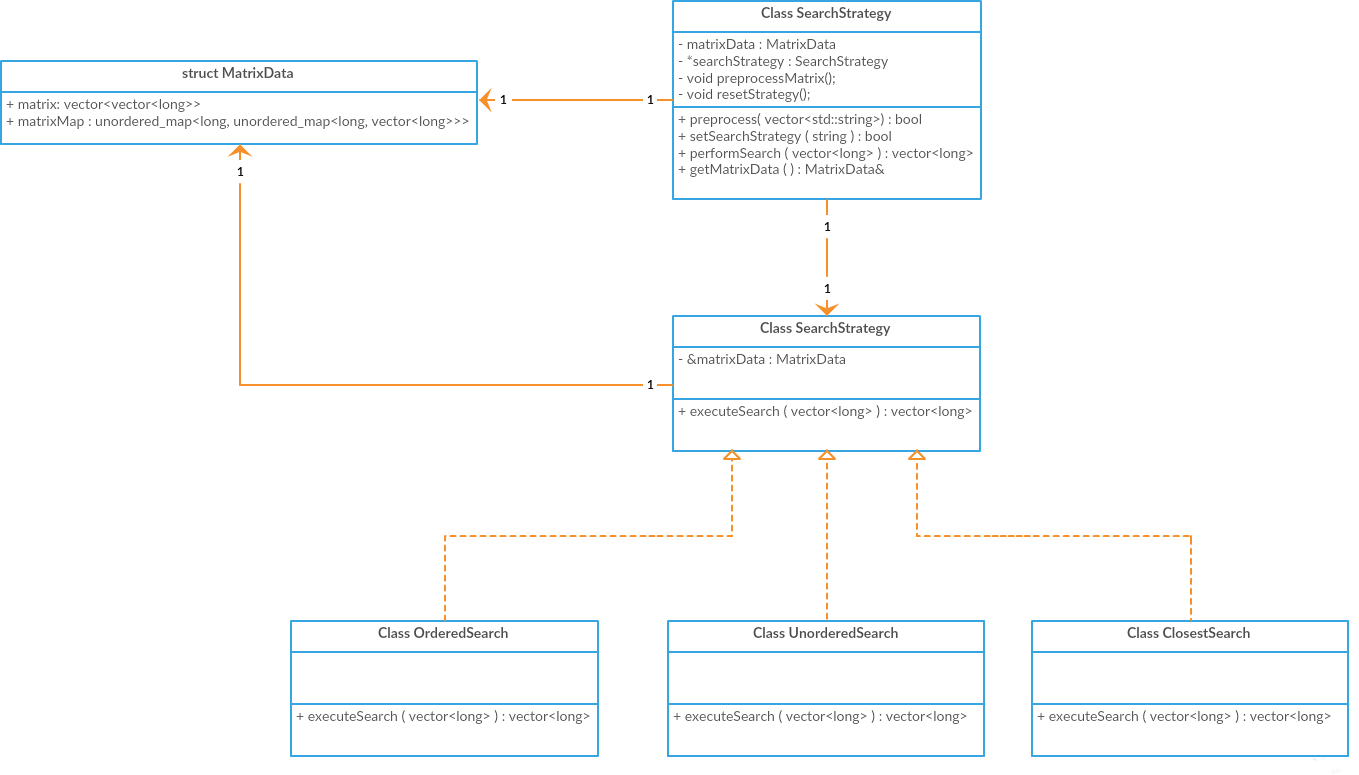
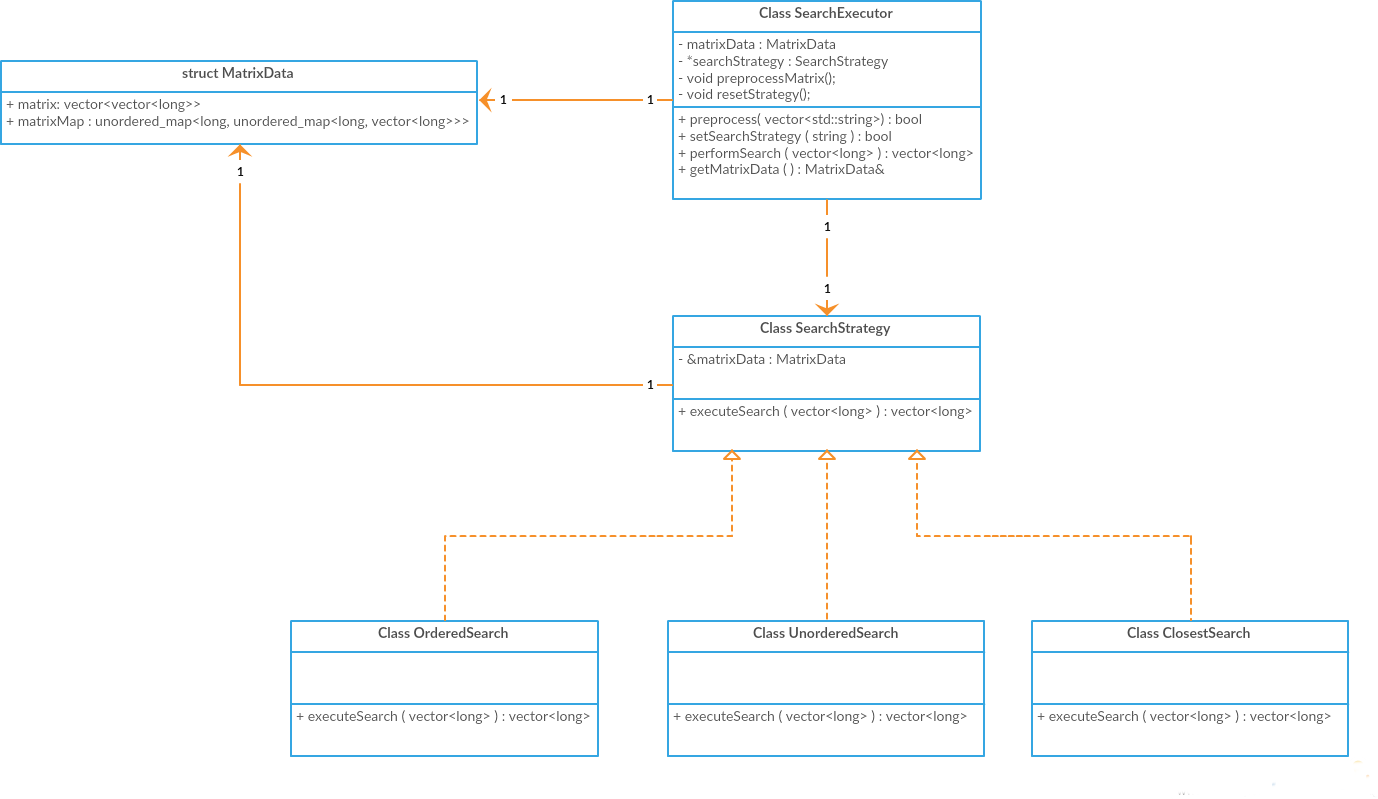
completed readme, code cleanup before submission

diff --git a/src/ordered_search.cpp b/src/ordered_search.cpp
@@ -1,19 +1,27 @@
 #include "ordered_search.hpp"
+#include <iostream>
 
 lvec OrderedSearch::executeSearch(lvec inputArr)
 {
-    if(inputArr.size() == 0)
+    if(inputArr.size() == 0)  //check for empty input
         return {-1};
 
     const matrixmap & matrixMap = matrixData.matrixMap;
     const matrixtype & matrix = matrixData.matrix;
 
+    //check if first element is present in the matrix and is the size of input array is greater than row length
     if (matrixMap.find(inputArr[0]) == matrixMap.end() || inputArr.size() > matrix[0].size())
         return {-1};
 
     lvec res;
     long i = 0;
 
+    //The logic here is: 
+    //1. We will first identify the rows where the first element of input array is present.
+    //2. Then identify the position in a given row where this element appears
+    //3. Traverse the matrix from this position till position + length of input array and during each step,
+    //   check if the element in matrix is same as that in input array
+    //4. If the number of matches is same input array length then the row index is stored and the process is repeated to find all such rows
     mapoflvec innerMap = matrixMap.at(inputArr[0]);
     for (mapoflvec::iterator it = innerMap.begin(); it != innerMap.end(); it++)
     {
@@ -21,7 +29,9 @@ lvec OrderedSearch::executeSearch(lvec inputArr)
         for (lvec::iterator it1 = innerVec.begin(); it1 != innerVec.end(); it1++)
         {
             long j = 1, pos = *it1;
-            while (j < inputArr.size())
+            long rowSize = matrix[it->first].size();
+
+            while (j < inputArr.size() && ((pos + j) < rowSize))
             {
                 if (matrix[it->first][pos + j] == inputArr[j])
                 {

diff --git a/src/unordered_search.cpp b/src/unordered_search.cpp
@@ -2,27 +2,31 @@
 
 lvec UnorderedSearch::executeSearch(lvec inputArr)
 {
-    if(inputArr.size() == 0)
+    if (inputArr.size() == 0) //check for empty input
         return {-1};
-        
+
     //const matrixmap &matrixMap = matrixData.matrixMap;
     matrixmap matrixMap = matrixData.matrixMap;
 
+    //check if the size of input array is greater than row length
     if (inputArr.size() > matrixData.matrix[0].size())
         return {-1};
 
     std::unordered_map<long, long> searchMap;
     std::vector<long> res;
 
+    //The logic here is:
+    //1. We will traverse the input array and for each integer identify the rows of the matrix where it appears.
+    //2. For each of these rows, identify the number of position in which this number appears.
+    //3. Accumulate this count and associate with the given row index in a map. Make sure the position once counted isn't counted again.
+    //4. At the end, for each row index in the map check if the count matched the length of the input array. The matched row indices the required result  
     for (long i = 0; i < inputArr.size(); i++)
     {
         try
         {
-
             mapoflvec &innerMap = matrixMap.at(inputArr[i]);
             for (mapoflvec::iterator it = innerMap.begin(); it != innerMap.end(); it++)
             {
-
                 if (it->second.size() > 0)
                 {
                     searchMap[it->first]++;

diff --git a/src/closest_search.cpp b/src/closest_search.cpp
@@ -2,7 +2,7 @@
 
 lvec ClosestSearch::executeSearch(lvec inputArr)
 {
-    if(inputArr.size() == 0)
+    if(inputArr.size() == 0) //check for empty input
         return {-1};
 
     matrixmap matrixMap = matrixData.matrixMap;
@@ -12,6 +12,12 @@ lvec ClosestSearch::executeSearch(lvec inputArr)
         
     std::unordered_map<long, long> searchMap;
 
+    //The logic here is:
+    //1. We will traverse the input array and for each integer identify the rows of the matrix where it appears.
+    //2. For each of these rows, identify the number of position in which this number appears.
+    //3. Accumulate this count and associate with the given row index in a map. Make sure the position once counted isn't counted again.
+    //4. At the end, for each row index in the map check which of these rows has the maximum count value. The row which max count is the required result.
+    //   if more than one row has same max count then they are stored in result.
     for (long i = 0; i < inputArr.size(); i++)
     {
         try

diff --git a/test/ordered_search_test.cpp b/test/ordered_search_test.cpp
@@ -25,7 +25,7 @@ class OrderedSearchTest : public testing::Test,
                                     {"1560,-631,891,53,90,141,465,-267,-6222"},
                                     {"10,-1,891,62653,-6290,-2621,65,667,282"},
                                     {"102,-361,891,563,9730,14731,-3,-36,223"}});
-    }
+        }
     void SetUp()
     {
         searchExecutor->setSearchStrategy("searchOrdered");
@@ -39,8 +39,8 @@ class OrderedSearchTest : public testing::Test,
 TEST_P(OrderedSearchTest, ShouldPreformOrderedSearch)
 {
     auto input = GetParam();
-    lvec out = searchExecutor->performSearch(input.inputArr); 
-    std::sort(out.begin(),out.end());
+    lvec out = searchExecutor->performSearch(input.inputArr);
+    std::sort(out.begin(), out.end());
     EXPECT_THAT(input.outputArr, out);
 }
 

diff --git a/src/main.cpp b/src/main.cpp
@@ -39,7 +39,7 @@ int main(int argc, char **argv)
         return 0;
     }
 
-    std::cout << "\n\nAvailable Search Commands" << std::endl;
+    std::cout << "\nAvailable Search Commands" << std::endl;
     std::cout << "1. searchOrdered <sequence of integers>" << std::endl;
     std::cout << "2. searchUnordered <sequence of integers>" << std::endl;
     std::cout << "3. searchClosest <sequence of integers>\n"
@@ -70,8 +70,9 @@ int main(int argc, char **argv)
         char *lineCh = strdup(line.c_str());
         char *token = strtok(lineCh, " ");
 
+
         //check if the command given is valid
-        if (searchExecutor.setSearchStrategy(std::string(token)))
+        if (token != nullptr && searchExecutor.setSearchStrategy(std::string(token)))
         {
             token = strtok(NULL, " ");
 

diff --git a/README.md b/README.md
@@ -15,8 +15,7 @@ Following is the summary of the requirements given to implement:
 
 ### Application Design
 The application is written in C++ (C++11) and written on Ubuntu OS (16.04). Visual studio code was the IDE used.
-The input to the application is a csv file and provided as command line argument. Since one of the requirement states that this input file has to be secure, the file has to be encrpyted. To achieve this, a submodule is provided which will encrpyt the input csv file. 
-
+The input to the application is a csv file and provided as a command line argument. Since one of the requirement states that this input file has to be secure, the file needs to be encrpyted. To achieve this, a submodule is provided which will encrpyt the input csv file. 
 The enc_dec_file.cpp file contains the encryption and decryption logic. XOR cipher, A simple but effective encyption scheme is used to implement this. To build the submodule following build command needs to used. 
 ```sh
 $ g++ -DCREATE_ENC_EXE -I./include ./src/enc_dec_file.cpp -o ./bin/encryptFile -std=c++11
@@ -35,7 +34,7 @@ The created file has to be used as input to the main search binary. The followin
 ```sh
 $ g++ -g -I./include ./src/*.cpp -o ./bin/searchExe -std=c++11
 ```
-The following example shows the opearation of the binary.
+The following example shows the opearation of the search binary.
 ```sh
 $ $ cat ../data/testfile.csv
 1,2,4,5,7,10,30,51
@@ -60,14 +59,54 @@ searchUnordered 515 10 7
 2
 searchClosest 10 -14 199 2
 0 1 
+searchOrdered 1 2 3
+-1
 ```
 
-As seen from the above example, the application provides three search functions and outputs the row indices that match the input sequence.
+As seen from the above example, the application provides three search functions and outputs the row indices of the 2d matrix that match the input sequence for a given search condition. If no match is found, -1 is printed.
+
+The units tests for the application are written using google test framework and following can be used to build the test binary. 
+```sh
+$ g++ -I./include ./test/*test.cpp ./src/enc_dec_file.cpp ./src/*search*.cpp -o bin/testExe -lpthread -lgtest -lgmock -lgtest_main -std=c++11
+```
 
 The following shows the class diagram for the application
 <p align="center">
   <img src="class_diagram.png" alt="Pages"/>
 </p>
 
+As seen from the above diagram, the Strategy Design pattern is used to implement the search functions. Each of the search function is implemented as a seperate class with self contained search logic and each of these class (OrderedSearch, UnorderedSearch, ClosestSearch) are inheriting from the main abstract class (SearchStrategy). This abstract class (interface) is used by the driver class (SearchExecutor) which also contains the matrix preprocess functions. A struct is created with envelops the matrix data that is propopagated among the search classes. This struct contains a preprocessed map which aids in fast searching.
+
+#### Preprocessing Logic
+
+To speed up the search functions, matrix preprocessing is done to structure the matrix in such a way that helps in fast searching. In preprocessing, a nested map is created which enodes the row and position information of each the element present in the 2d matrix. This processing is done one time during startup and stored in the MatrixData struct to be used by target search operations.
+```sh
+std::unordered_map<long, std::unordered_map<long, std::vector<long>>> matrixmap;
+```
+As seen in the above snippet, the map contains matirx value as the key and another map as the value. This inner map consists of the row index where the corresponding matrix value appears as key and the array of positions where the value appears in that row as the value.
+
+### Time Complexity of search functions
+For a given input 2d matrix of dimensions N*M, follwing gives the time complexity of each search functions.
+##### Ordered Search function
+The time complexity is O(n * m * l) where,
+n: number of rows where the first integer of the input array to be searched appears
+m: number of positions that the first integer is found in a given row
+l: length of the input array to be searched
+
+The length of n and m are relatively much smaller than N and M respectivley for most of the cases. In worst case they will be equal to N and M if the given array contains only one integer which is repeated N*M times and the input search also contains same integer repeated.
+
+##### Unordered Search function
+The time complexity is O(l * n) where,
+l: length of the input array to be searched
+n: number of rows where the each integer of the input array to be searched appears
+
+In worst case the value of l and n be equal to M(number of columns) and N (number of rows).
+
+##### Closest Search function
+The time complexity is O(l * n) where,
+l: length of the input array to be searched
+n: number of rows where the each integer of the input array to be searched appears
+
+In worst case the value of n will be equal to N and l can much larger than M.
 
 
